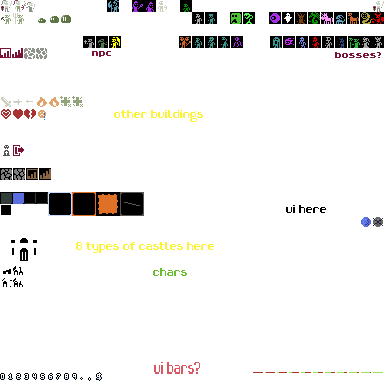
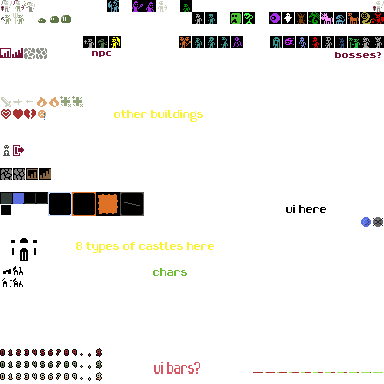
exp gain from stats

Changed region(s): [[0.0, 0.9062, 0.2188, 1.0], [0.25, 0.9062, 0.2812, 1.0]]

diff --git a/src/main.ts b/src/main.ts
@@ -1,4 +1,4 @@
-import { actorData, ActorType, Behavior } from './data/actor-data'
+import { actorData, ActorType, Behavior, getExpGainFromStats, getLevelFromExp, getStatsFromLevel } from './data/actor-data'
 import { spellData } from './data/spell-data'
 import { createLogFromEvent } from './ui/logs'
 import { setBehaviorButtons, setupPlayerUi, updatePlayerUi } from './ui/player-ui'
@@ -140,18 +140,17 @@ const drawTile = (/*image:HTMLImageElement, */ index:number, x:number, y:number,
 }
 
 enum NumberColor {
-  Red,
-  Gold,
-  Green,
+  Red = 0,
+  Gold = 1,
+  Green = 2,
 }
 const numbers = ['0', '1', '2', '3', '4', '5', '6', '7', '8', '9']
-const drawNumbers = (number:number, color:Number, x:number, y:number) => {
+const drawNumbers = (number:number, color:NumberColor, x:number, y:number) => {
   // ctx.globalAlpha
   const numString = (number + '').split('')
 
   numString.forEach((n, i) => {
-    console.log(0 + numbers.indexOf(n) * 8, 372, 5, 7, x * 14, y + 14, 5, 7)
-    ctx.drawImage(image, 0 + numbers.indexOf(n) * 8, 372, 5, 8, x * 14 + ((3 - numString.length) * 2) + i * 4, y * 14 + 3, 5, 8)
+    ctx.drawImage(image, 0 + numbers.indexOf(n) * 8, 348 + color * 12, 5, 8, x * 14 + ((3 - numString.length) * 2) + i * 4, y * 14 + 3, 5, 8)
   })
 }
 
@@ -181,7 +180,7 @@ const draw = () => {
 
   particles.forEach(particle => {
     if (particle.tile === -1) {
-      drawNumbers(particle.number!, NumberColor.Red, particle.x, particle.y)
+      drawNumbers(Math.abs(particle.number!), particle.number! > 0 ? NumberColor.Red : NumberColor.Green, particle.x, particle.y)
     } else {
       drawTile(particle.tile, particle.x, particle.y)
     }
@@ -209,6 +208,19 @@ const ready = () => {
 const run = async () => {
   image = new Image()
   image.src = './assets/tiles.png'
+
+  console.log(getStatsFromLevel(getLevelFromExp(1000), actorData.get(ActorType.Knight)!.stats))
+  console.log(getLevelFromExp(100))
+  console.log(getLevelFromExp(1000))
+  console.log(getLevelFromExp(10000))
+  console.log(getLevelFromExp(100000))
+  console.log(getLevelFromExp(1000000))
+
+  console.log(getExpGainFromStats(getStatsFromLevel(1, actorData.get(ActorType.Goblin)!.stats)))
+  console.log(getExpGainFromStats(getStatsFromLevel(3, actorData.get(ActorType.Goblin)!.stats)))
+  console.log(getExpGainFromStats(getStatsFromLevel(10, actorData.get(ActorType.Goblin)!.stats)))
+  console.log(getExpGainFromStats(getStatsFromLevel(20, actorData.get(ActorType.Goblin)!.stats)))
+  console.log(getExpGainFromStats(getStatsFromLevel(100, actorData.get(ActorType.Goblin)!.stats)))
 
   // const grid = makeGrid(11, 11)
 

diff --git a/src/data/actor-data.ts b/src/data/actor-data.ts
@@ -28,11 +28,11 @@ const low04 = [1, 1, 2, 3, 3]
 const low05 = [2, 3, 3, 7]
 
 enum StatType {
-  MaxHealth,
-  Speed,
-  Power,
-  Int,
-  Dex,
+  MaxHealth = 'MaxHealth',
+  Speed = 'Speed',
+  Power = 'Power',
+  Int = 'Int',
+  Dex = 'Dex',
 }
 
 // type Stat = [StatType, ExpSpeed]
@@ -42,6 +42,14 @@ type Stats = {
   [StatType.Power]: ExpSpeed
   [StatType.Int]: ExpSpeed
   [StatType.Dex]: ExpSpeed
+}
+
+type CompStats = {
+  [StatType.MaxHealth]: number
+  [StatType.Speed]: number
+  [StatType.Power]: number
+  [StatType.Int]: number
+  [StatType.Dex]: number
 }
 
 // TODO: split up actor type
@@ -105,6 +113,27 @@ const playerActors = [ActorType.Knight, ActorType.Archer, ActorType.Mage]
 export const isPlayerActor = (actorType:ActorType) =>
   playerActors.includes(actorType)
 
-export const getLevelFromExperience = (exp:number) => {
+export const getLevelFromExp = (exp:number) =>
   Math.floor(Math.pow(exp, 1/3))
+
+export const getStatsFromLevel = (level:number, stats:Stats):CompStats => {
+  const comp:CompStats = {
+    [StatType.MaxHealth]: 0,
+    [StatType.Speed]: 0,
+    [StatType.Power]: 0,
+    [StatType.Int]: 0,
+    [StatType.Dex]: 0,
+  }
+
+  while (--level > 0) {
+    for (let key in comp) {
+      // @ts-ignore
+      comp[key] += stats[key][level % stats[key].length]
+    }
+  }
+
+  return comp
 }
+
+export const getExpGainFromStats = (stats:CompStats) =>
+  stats[StatType.MaxHealth] + stats[StatType.Speed] + stats[StatType.Power] + stats[StatType.Int] + stats[StatType.Dex]

diff --git a/src/css/main.css b/src/css/main.css
@@ -38,6 +38,8 @@ p {
   margin: 0.2rem;
   font-size: 1rem;
   font-weight: 700;
+  /* why is this needed here? */
+  font-family: monospace;
 }
 
 button {
